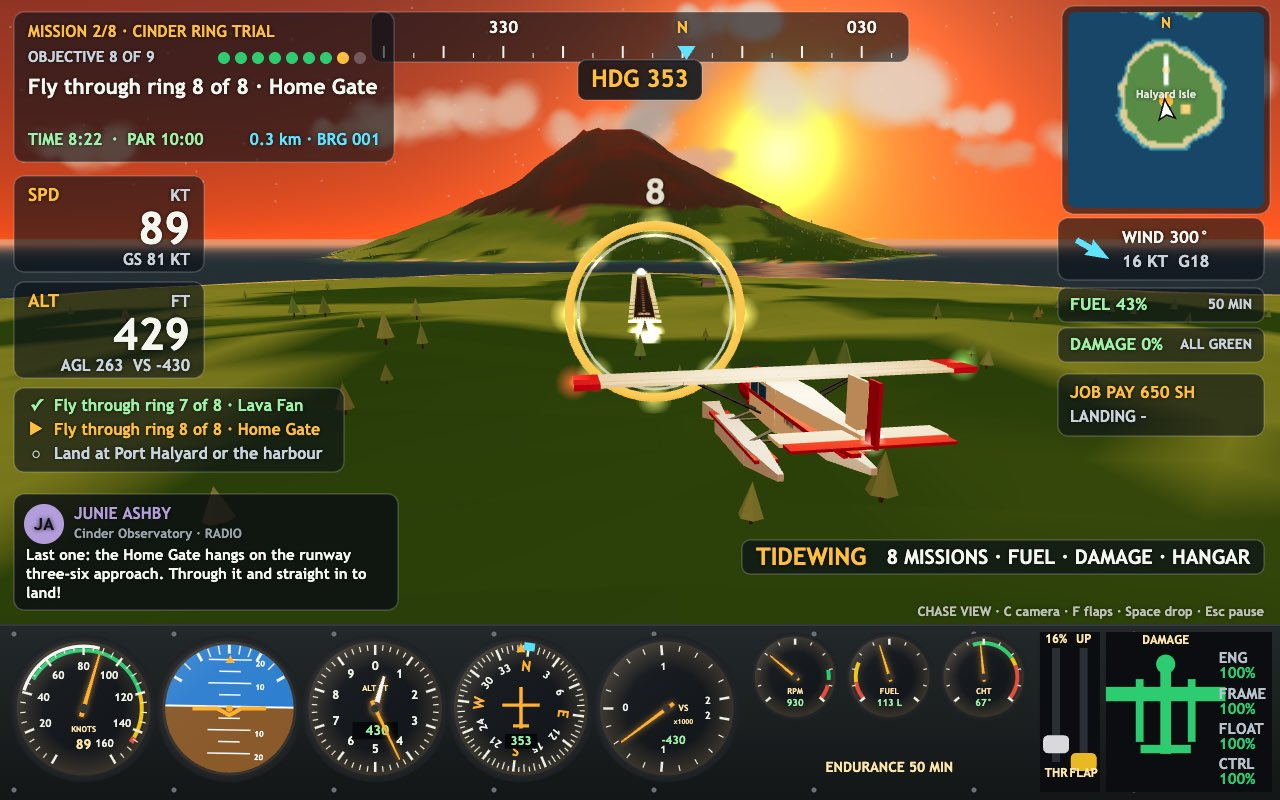
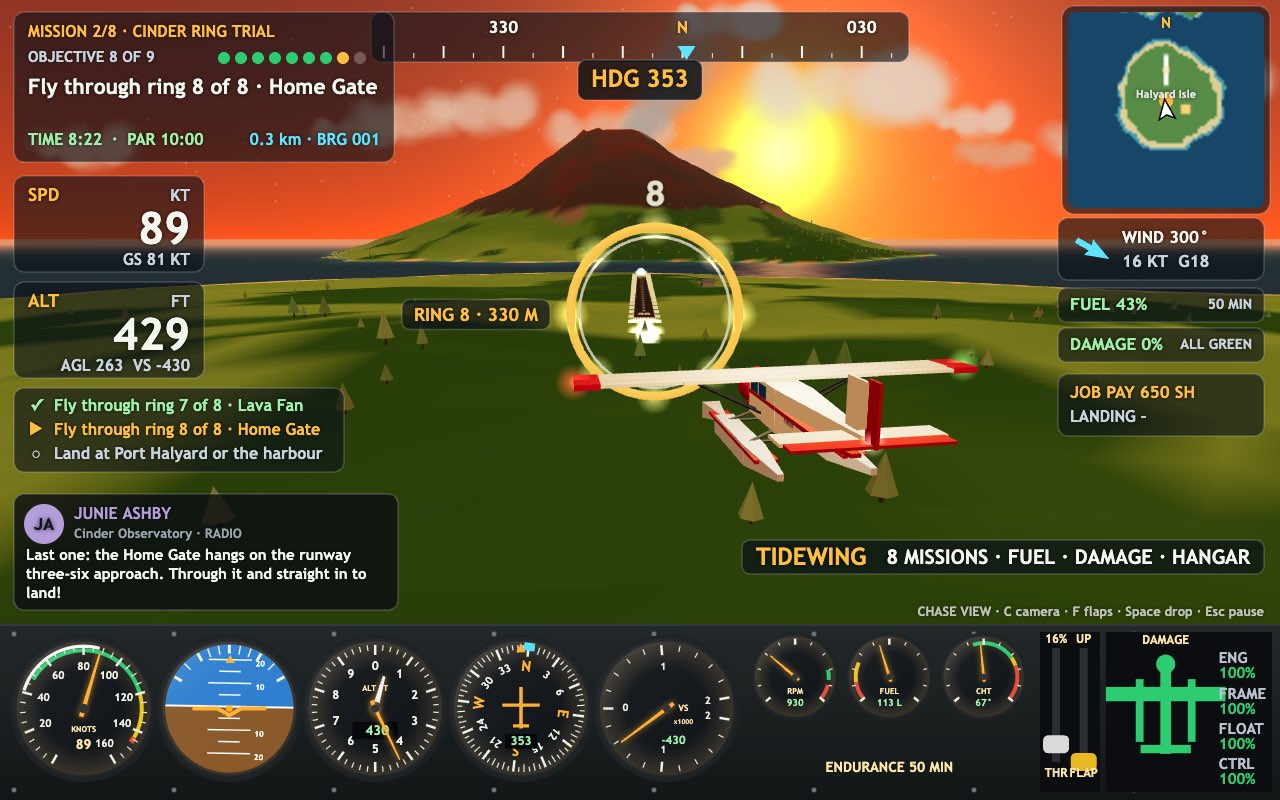
feat(hud): ring number and distance tag beside the next ring
The HUD projects the next ring into the view and tags it with its number
and distance on its left, clear of the runway inside it and the aircraft;
the tag is left out in the cockpit and where it would meet the HUD.
Screenshots 1 to 3 re-taken with tools/takeShots.mjs.

diff --git a/game/src/hud/flightHud.js b/game/src/hud/flightHud.js
@@ -336,6 +336,26 @@ function scopeStrip(ctx, W, missionCount, bottom, right, rightColBottom) {
   if (full) text(ctx, scope, x + tw + 34, y + 18, 20, INK);
 }
 
+// A tag beside the next ring in the world: its number and distance, left of the ring so
+// the runway inside it and the aircraft below stay clear; drawn only in open sky.
+function ringTag(ctx, ms, info) {
+  const o = currentObjective(ms);
+  if (!o || o.kind !== 'ring' || !info.project || info.view === 'cockpit') return;
+  const c = info.project(o.x, o.y, o.z);
+  const top = info.project(o.x, o.y + o.r, o.z);
+  if (!c || !top) return;
+  const rad = Math.abs(c.y - top.y);
+  const m = Math.round(Math.hypot(ms.ac.pos.x - o.x, ms.ac.pos.y - o.y, ms.ac.pos.z - o.z) / 10) * 10;
+  const s = `RING ${ms.ringNo(o).split(' ')[0]} · ${m} M`;
+  ctx.font = `bold 18px ${FONT}`;
+  const w = ctx.measureText(s).width + 24;
+  const x = c.x - rad - 14 - w;
+  const y = c.y - 15;
+  if (x < 360 || y < 180 || y + 30 > info.panelTop - 150) return;
+  box(ctx, x, y, w, 30, 'rgba(10,16,24,0.7)', 8);
+  text(ctx, s, x + 12, y + 16, 18, AMBER);
+}
+
 function radioBox(ctx, W, msg, bottom, left = 14) {
   if (!msg) return;
   // bottom left, beside the aircraft: never over the aircraft, the runway or the sky ahead
@@ -384,6 +404,7 @@ export function drawFlightHud(ctx, W, H, ms, info) {
   y = windBlock(ctx, W, ms, y + 4);
   y = chips(ctx, W, ms, y);
   if (y + 72 < info.panelTop - 24) { scoreLine(ctx, W, ms, y + 6); y += 68; }
+  ringTag(ctx, ms, info);
   // in the cockpit the left column runs down to the glare shield, so the radio sits up top
   checklist(ctx, ms, 14, ry + 212, info.view === 'cockpit' ? info.panelTop - 10 : info.panelTop - (info.radio ? 144 : 24));
   if (info.view === 'cockpit') radioBox(ctx, W, info.radio, 236, W / 2 - 195);

diff --git a/game/src/main.js b/game/src/main.js
@@ -228,6 +228,10 @@ function renderFlight(ms, dt, opts = {}) {
     missionNo: ms.def.order, missionCount: MISSIONS.length, view: game.view,
     panelTop: panel.top, banner, radio: ms.radio.current,
     rotateSpeed: stallSpeed(ac.spec, ac.mass, ac.controls.flaps) * 1.1,
+    project: (x, y, z) => {
+      const v = new THREE.Vector3(x, y, z).project(camera);
+      return v.z < 1 ? { x: (v.x + 1) * W / 2, y: (1 - v.y) * H / 2 } : null;
+    },
   });
 }
 
